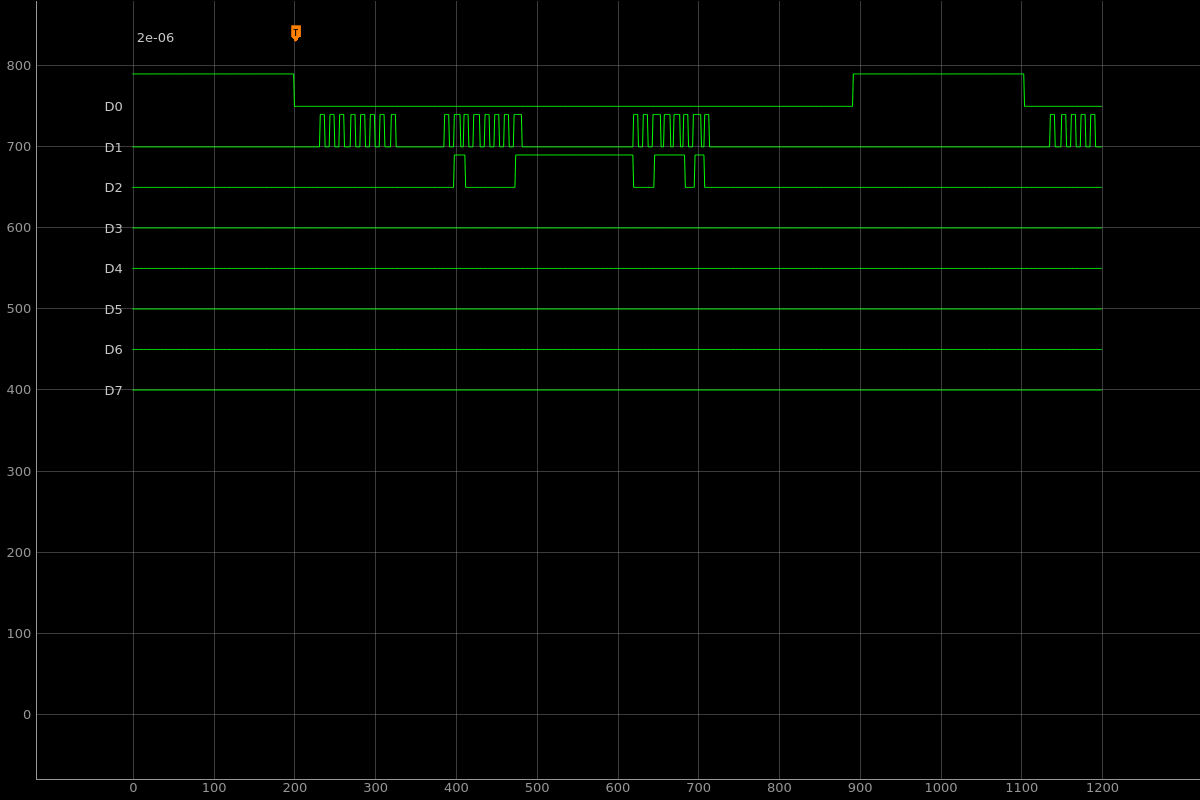
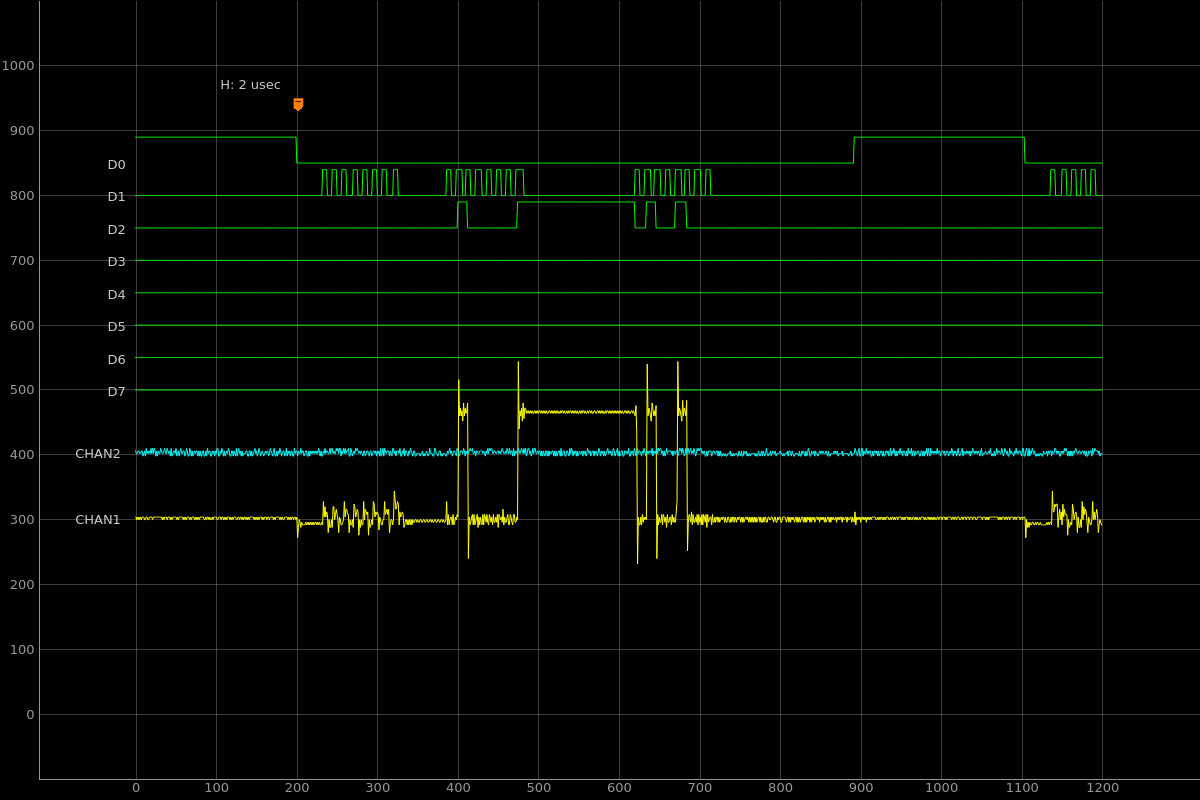
Updated README.md

diff --git a/README.md b/README.md
@@ -11,9 +11,11 @@ There is the nice DSRemote Qt5 project, but the applicatin lacks the feature of 
 
 ### Updates
 
+    29.05.2021 : Correct scaling and positioning of analog channels
     28.05.2021 : Querying for active LA and analog channels
                  Drawing trigger icon at correct position
 
 ### To-Do
 
-    Correct scaling and positioning of analog channels
+    Add more icons and labels to reflect current settings
+    Get rid of the surrouding grid lines and values
